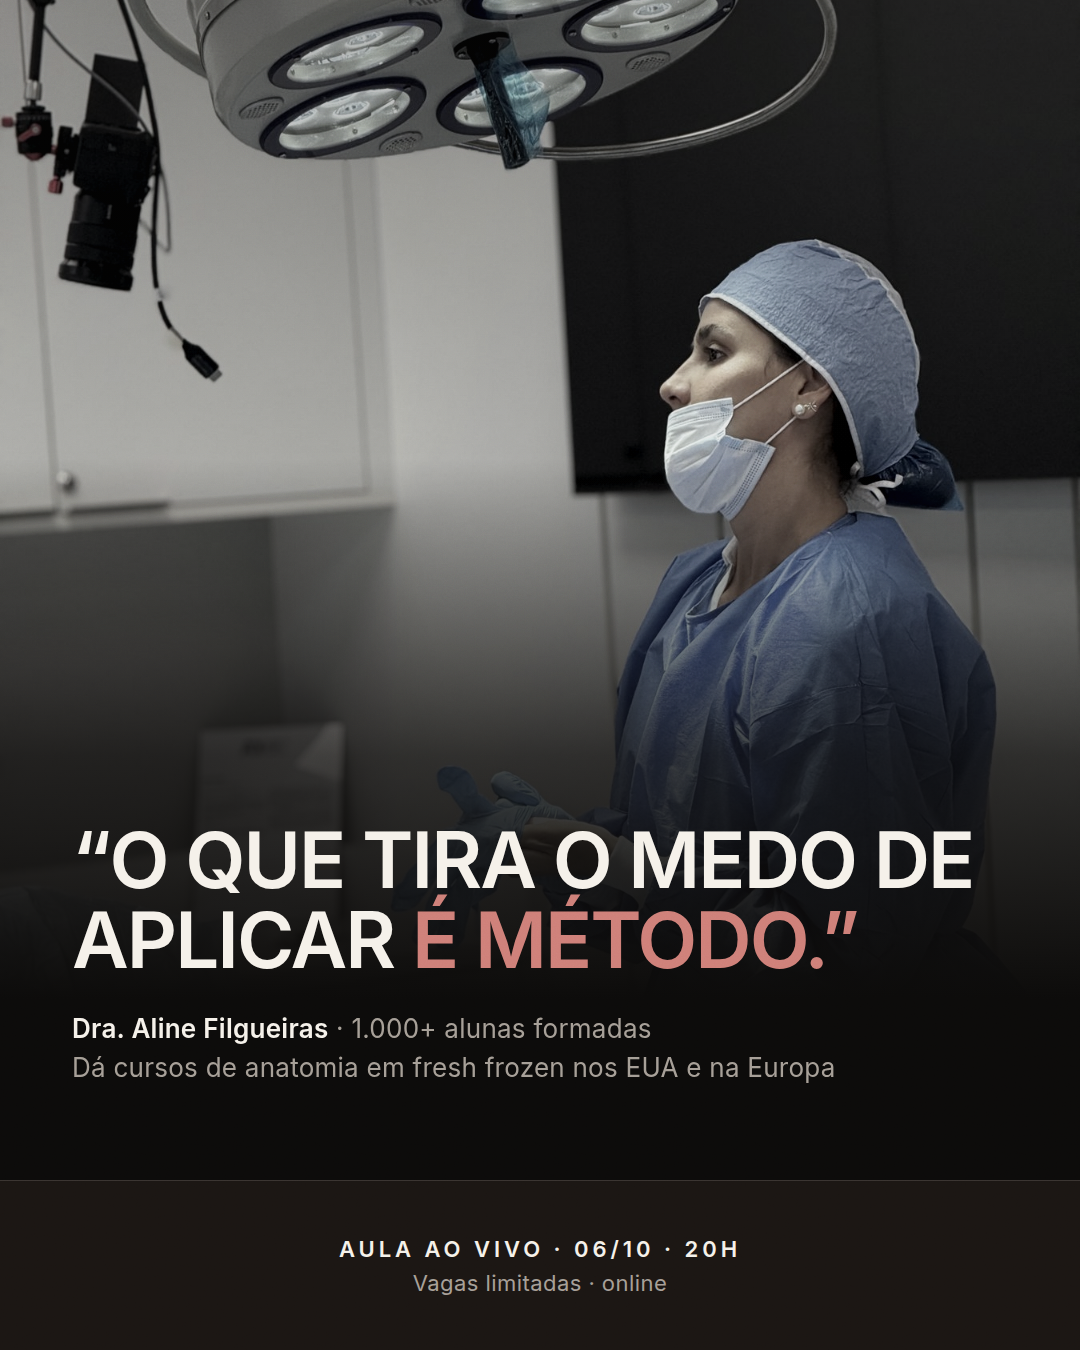
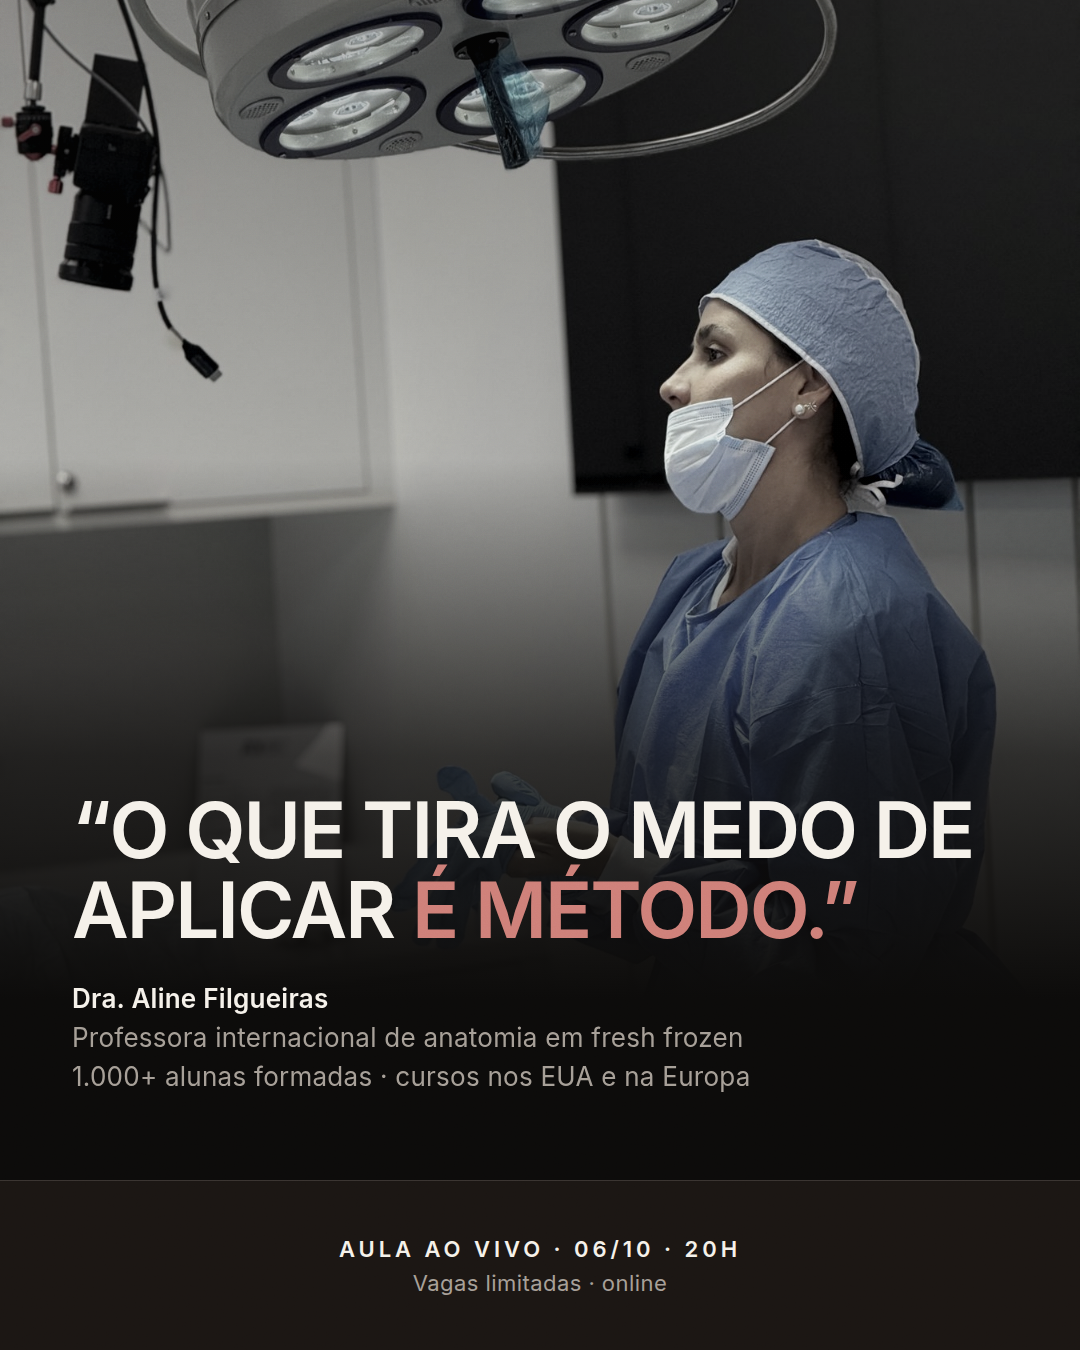
Criativo 08: "professora internacional de anatomia em fresh frozen"
Nome numa linha, o título na segunda e a prova (1.000+ alunas, cursos nos
EUA e na Europa) na terceira, sem quebra solta.

Claude-Session: https://claude.ai/code/session_01WPUMeavyQNj8nGDqq9EBnH

Changed region(s): [[0.0611, 0.5911, 0.9167, 0.8089]]

diff --git a/docs/criativos/criativos.html b/docs/criativos/criativos.html
@@ -183,7 +183,7 @@
      anúncio já mostra o botão da plataforma. Pouca informação. */
   .t6 .foto { position: absolute; inset: 0; background: url("fotos/lab-luvas.jpg") 64% 16% / cover; filter: saturate(.45) contrast(1.06) brightness(.92); }
   .t6 .veu { position: absolute; inset: 0; background: linear-gradient(180deg, rgba(12,11,10,.25) 0%, rgba(12,11,10,0) 34%, rgba(12,11,10,.75) 56%, var(--bg) 74%); }
-  .t6 .texto { position: absolute; left: 72px; right: 72px; top: 820px; }
+  .t6 .texto { position: absolute; left: 72px; right: 72px; top: 790px; }
   .t6 h1 { font-family: "Inter", sans-serif; font-size: 78px; line-height: 1.02; font-weight: 600; letter-spacing: -.025em; text-transform: uppercase; color: var(--fg); }
   .t6 h1 em { font-style: normal; color: var(--wine-ink); white-space: nowrap; }
   .t6 .autor { margin-top: 30px; font-size: 26px; line-height: 1.5; color: var(--fg-soft); letter-spacing: .01em; }
@@ -194,7 +194,7 @@
 
   .story.t6 .foto { background-position: 66% 18%; }
   .story.t6 .veu { background: linear-gradient(180deg, rgba(12,11,10,.55) 0%, rgba(12,11,10,0) 22%, rgba(12,11,10,.7) 46%, var(--bg) 62%); }
-  .story.t6 .texto { top: 1000px; }
+  .story.t6 .texto { top: 940px; }
   .story.t6 h1 { font-size: 84px; }
   .story.t6 .barra { bottom: 330px; border-bottom: 1px solid var(--line); }
 </style>
@@ -351,7 +351,7 @@
   <div class="foto"></div><div class="veu"></div>
   <div class="texto">
     <h1>&ldquo;O que tira o medo de aplicar <em>é método.&rdquo;</em></h1>
-    <p class="autor"><b>Dra. Aline Filgueiras</b> · 1.000+ alunas formadas<br>Dá cursos de anatomia em fresh frozen nos EUA e na Europa</p>
+    <p class="autor"><b>Dra. Aline Filgueiras</b><br>Professora internacional de anatomia em fresh frozen<br>1.000+ alunas formadas · cursos nos EUA e na Europa</p>
   </div>
   <div class="barra">
     <span class="aula">Aula ao vivo · 06/10 · 20h<small>Vagas limitadas · online</small></span>
